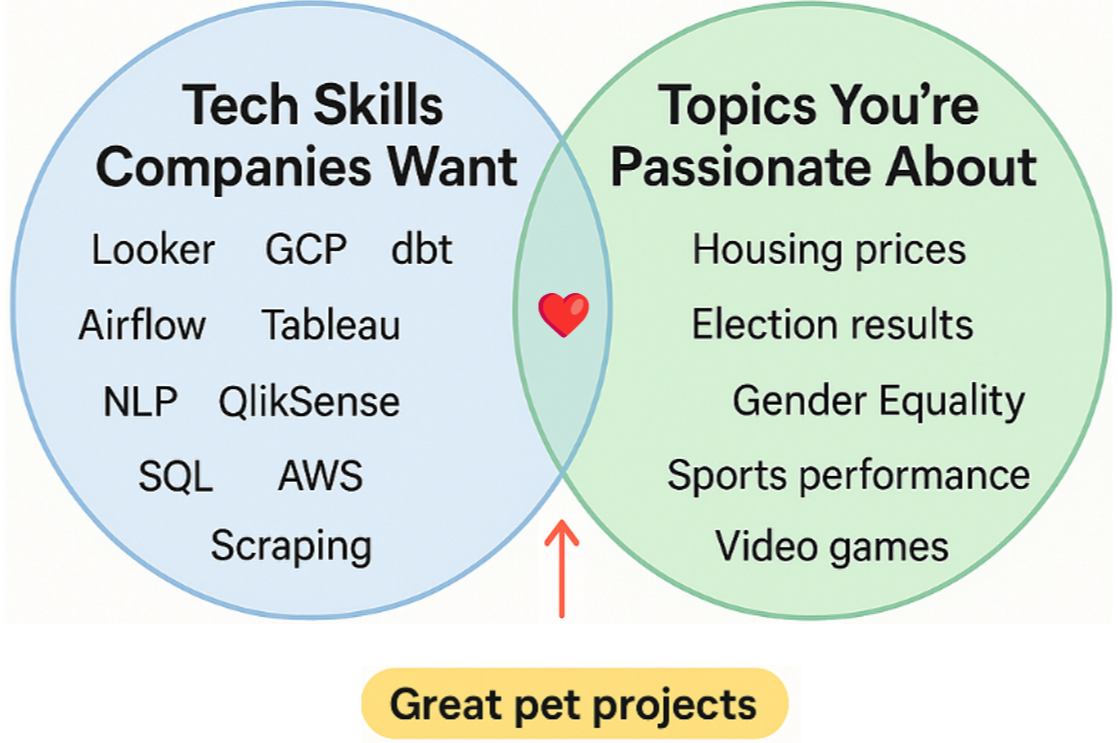
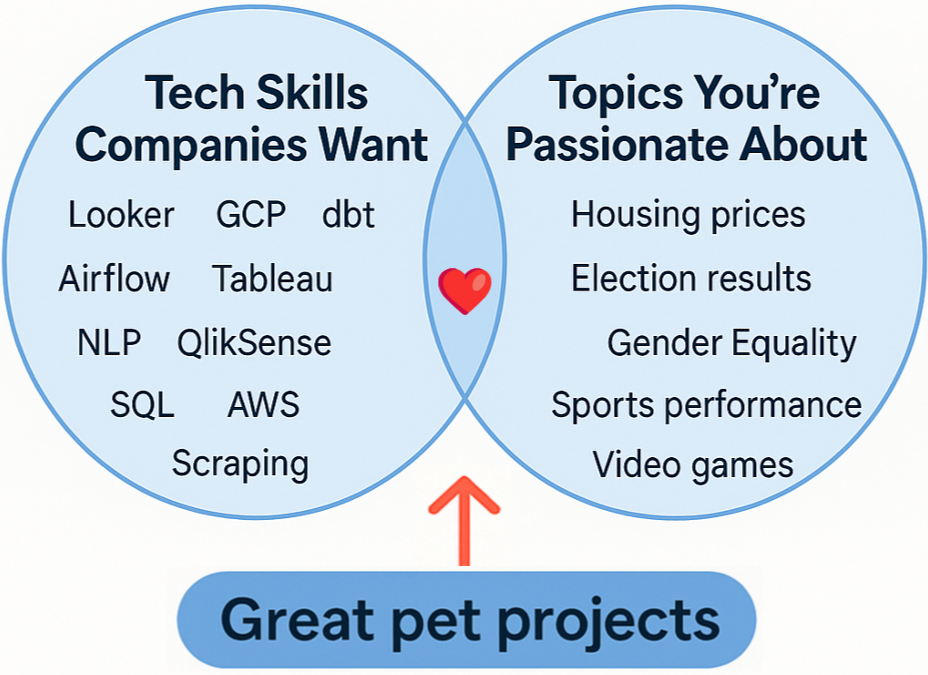
changed the diagram to monocolor one

diff --git a/main.tex b/main.tex
@@ -59,7 +59,7 @@
 
 %-----------------------------------------------------
 	
-\begin{textbox}{Pet Projects}
+\begin{textboxRed}{Pet Projects}
 \emph{I landed my first job in Data by sending \underline{\href{https://www.youtube.com/watch?v=54jvW1ulaP0&t=961s}{this}} with every application.}
 
 \begin{itemize}
@@ -82,7 +82,7 @@
 
 \textit{Aim to simulate the tasks and the stack of the companies you’re applying to.}
 
-\end{textbox}
+\end{textboxRed}
 
 %-----------------------------------------------------
 \begin{textbox}{Hard Skills Focus Areas}
